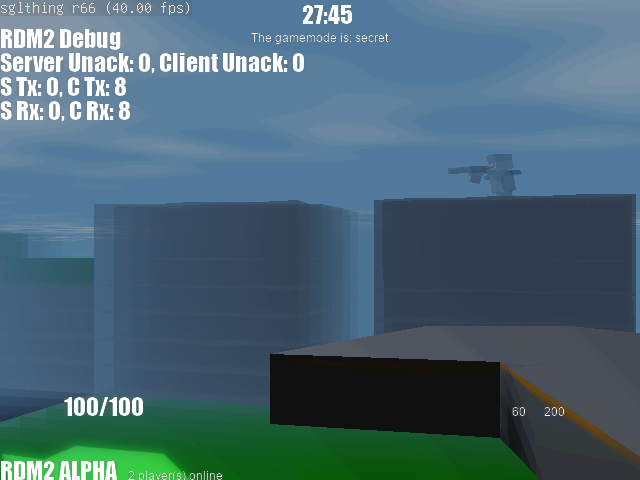
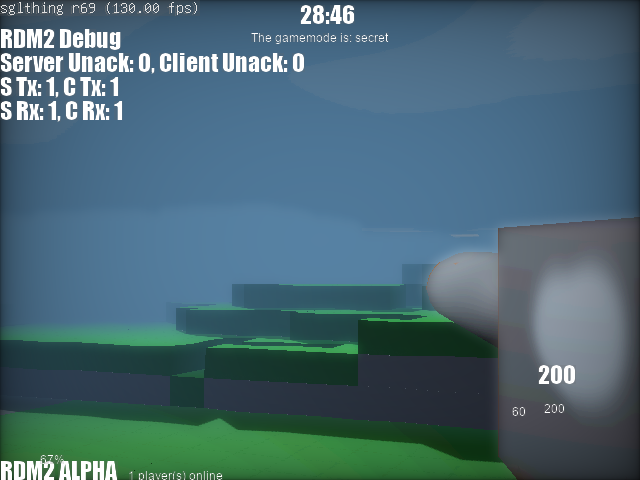
rdm2: color picker

diff --git a/sglrdm2/rdm2.c b/sglrdm2/rdm2.c
@@ -23,7 +23,7 @@ static void rdm_frame(struct world* world)
         vec3 velocity_frame, velocity_frame_p;
         glm_vec3_copy(client_state.player_velocity, velocity_frame_p);
         glm_vec3_mul(velocity_frame_p, (vec3){world->delta_time, world->delta_time, world->delta_time}, velocity_frame);
-        glm_vec3_add(velocity_frame, player_move, player_move);
+        glm_vec3_sub(velocity_frame, player_move, player_move);
 
         float rooftest_height = 1.5f;
         vec3 player_move_x = {0};
@@ -72,7 +72,7 @@ static void rdm_frame(struct world* world)
             glm_vec3_copy(expected_position, client_state.local_player->position);
 
         vec3 vel_loss;
-        float vel_loss_scalar = 5.f, vel_loss_scalar_y = 0.1f;
+        float vel_loss_scalar = client_state.player_grounded ? 5.f : 1.f, vel_loss_scalar_y = 0.1f;
         glm_vec3_mul(client_state.player_velocity, (vec3){vel_loss_scalar * world->delta_time, vel_loss_scalar_y * world->delta_time, vel_loss_scalar * world->delta_time}, vel_loss);
         glm_vec3_sub(client_state.player_velocity, vel_loss, client_state.player_velocity);
         float vel_min = 0.01f;
@@ -99,7 +99,7 @@ static void rdm_frame(struct world* world)
 
             if(get_focus() && keys_down[GLFW_KEY_SPACE])
             {
-                glm_vec3_add(client_state.player_velocity, (vec3){0.f,5.0f,0.f}, client_state.player_velocity);         
+                glm_vec3_add(client_state.player_velocity, (vec3){0.f,3.5f,0.f}, client_state.player_velocity);         
                 glm_vec3_add(client_state.local_player->position, (vec3){0.f,0.1f,0.f}, client_state.local_player->position);
             }            
         }
@@ -125,6 +125,23 @@ static void rdm_frame(struct world* world)
 
         if(get_focus())
         {
+            if(client_state.local_player->active_weapon == WEAPON_BLOCK)
+            {
+                if(floorf(mouse_state.scroll_y) != 0)
+                {
+                    struct network_packet _pak; 
+                    union rdm_packet_data* _data = (union rdm_packet_data*)&_pak.packet.data;
+
+                    _pak.meta.packet_type = RDM_PACKET_UPDATE_WEAPON;
+                    _pak.meta.acknowledge = false;
+                    _pak.meta.packet_size = sizeof(union rdm_packet_data);
+                    _data->update_weapon.weapon = WEAPON_BLOCK;
+                    _data->update_weapon.block_color = client_state.local_player->weapon_block_color + floorf(mouse_state.scroll_y);
+
+                    network_transmit_packet(&world->client, &world->client.client, &_pak);
+                }
+            }
+
             if(mouse_state.mouse_button_l)
                 weapon_trigger_fire(world, false);
             else if(mouse_state.mouse_button_r)
@@ -155,11 +172,13 @@ static void rdm_frame(struct world* world)
 
             glm_vec3_zero(player_move); // fall
 
-            client_state.player_velocity[0] += cosf(world->cam.yaw*M_PI_180f) * get_input("z_axis") * world->delta_time * 25.f;
-            client_state.player_velocity[2] += sinf(world->cam.yaw*M_PI_180f) * get_input("z_axis") * world->delta_time * 25.f;
+            float move_speed = client_state.player_grounded ? 25.f : 7.f;
 
-            client_state.player_velocity[0] += cosf(world->cam.yaw*M_PI_180f+M_PI_2f) * get_input("x_axis") * world->delta_time * 25.f;
-            client_state.player_velocity[2] += sinf(world->cam.yaw*M_PI_180f+M_PI_2f) * get_input("x_axis") * world->delta_time * 25.f;
+            client_state.player_velocity[0] += cosf(world->cam.yaw*M_PI_180f) * get_input("z_axis") * world->delta_time * move_speed;
+            client_state.player_velocity[2] += sinf(world->cam.yaw*M_PI_180f) * get_input("z_axis") * world->delta_time * move_speed;
+
+            client_state.player_velocity[0] += cosf(world->cam.yaw*M_PI_180f+M_PI_2f) * get_input("x_axis") * world->delta_time * move_speed;
+            client_state.player_velocity[2] += sinf(world->cam.yaw*M_PI_180f+M_PI_2f) * get_input("x_axis") * world->delta_time * move_speed;
         }
 
         if(world->client.pung)
@@ -340,9 +359,12 @@ static void rdm_frame_ui(struct world* world)
             {
                 vec4 oldbg_kys;
                 world->ui->panel_background_color[3] = 1.f;
-                int c = client_state.local_player->weapon_block_color;
+                unsigned char c = client_state.local_player->weapon_block_color;
                 map_color_to_rgb(c, world->ui->panel_background_color);
                 ui_draw_panel(world->ui, world->gfx.screen_width - 32, 32, 32, 32, 1.f);
+                char col_tx[16];
+                snprintf(col_tx,16,"%u",c);
+                ui_font2_text(world->ui, 0.f, 12.f, client_state.normal_font, col_tx, 0.5f);
                 ui_end_panel(world->ui);
                 glm_vec4_copy(oldbg_kys, world->ui->panel_background_color);
             }

diff --git a/sglrdm2/map.c b/sglrdm2/map.c
@@ -151,9 +151,9 @@ void map_update_chunks(struct map_manager* map, struct world* world)
         }
     }
 
-    int p_c_x = floorf(world->cam.position[0]/(RENDER_CHUNK_SIZE * CUBE_SIZE));
+    int p_c_x = floorf((world->cam.position[0]+0.5f)/(RENDER_CHUNK_SIZE * CUBE_SIZE));
     int p_c_y = floorf(world->cam.position[1]/(RENDER_CHUNK_SIZE * CUBE_SIZE));
-    int p_c_z = floorf(world->cam.position[2]/(RENDER_CHUNK_SIZE * CUBE_SIZE));
+    int p_c_z = floorf((world->cam.position[2]+0.5f)/(RENDER_CHUNK_SIZE * CUBE_SIZE));
 
     int request_range = map->map_request_range;
 
@@ -193,7 +193,7 @@ void map_update_chunks(struct map_manager* map, struct world* world)
     profiler_end();
 }
 
-void map_update_chunk(struct map_manager* map, int c_x, int c_y, int c_z, int d_x, char* chunk_data)
+void map_update_chunk(struct map_manager* map, int c_x, int c_y, int c_z, int d_x, unsigned char* chunk_data)
 {
     struct __render_chunk* new_chunk = __map_chunk_position(map, c_x, c_y, c_z);
     if(!new_chunk)
@@ -214,7 +214,7 @@ void map_update_chunk(struct map_manager* map, int c_x, int c_y, int c_z, int d_
         for(int z = 0; z < RENDER_CHUNK_SIZE; z++)
         {
             struct __render_chunk_block* block = &new_chunk->x[d_x].y[y].z[z];
-            char data = chunk_data[y*RENDER_CHUNK_SIZE+z];
+            unsigned char data = chunk_data[y*RENDER_CHUNK_SIZE+z];
             block->air = false;
             if(data == 0)
                 block->air = true;
@@ -410,7 +410,7 @@ bool map_determine_collision_server(struct map_server* map, vec3 position)
     }
 }
 
-void map_color_to_rgb(char color_id, vec3 output)
+void map_color_to_rgb(unsigned char color_id, vec3 output)
 {
     int data_r = abs((color_id / 16) + 1);
     int data_g = abs((color_id / 4 % 4) + 1);

diff --git a/sglrdm2/map.h b/sglrdm2/map.h
@@ -17,7 +17,7 @@ struct map_chunk
 {
     struct {
         struct {
-            char z[RENDER_CHUNK_SIZE];
+            unsigned char z[RENDER_CHUNK_SIZE];
         } y[RENDER_CHUNK_SIZE];
     } x[RENDER_CHUNK_SIZE];
 };
@@ -54,8 +54,8 @@ void map_server_init(struct map_server* map);
 void map_init(struct map_manager* map);
 void map_render_chunks(struct world* world, struct map_manager* map);
 void map_update_chunks(struct map_manager* map, struct world* world);
-void map_update_chunk(struct map_manager* map, int c_x, int c_y, int c_z, int d_x, char* chunk_data);
-void map_color_to_rgb(char color_id, vec3 output);
+void map_update_chunk(struct map_manager* map, int c_x, int c_y, int c_z, int d_x, unsigned char* chunk_data);
+void map_color_to_rgb(unsigned char color_id, vec3 output);
 
 bool map_determine_collision_client(struct map_manager* map, vec3 position);
 bool map_determine_collision_server(struct map_server* map, vec3 position);

diff --git a/sglthing/keyboard.c b/sglthing/keyboard.c
@@ -16,6 +16,13 @@ bool input_lock_tab = false;
 int input_cursor = 0;
 
 #ifndef HEADLESS
+
+static void __scroll_callback(GLFWwindow* window, double xoffset, double yoffset)
+{
+    mouse_state.scroll_x = xoffset;
+    mouse_state.scroll_y = yoffset;
+}
+
 static void __mouse_callback(GLFWwindow* window, double xpos, double ypos)
 {
     mouse_position[0] = xpos;
@@ -97,6 +104,7 @@ void init_kbd(GLFWwindow* window)
     glfwSetMouseButtonCallback(window, __click_callback);
     glfwSetCursorPosCallback(window, __mouse_callback);
     glfwSetCharCallback(window, __chara_callback);
+    glfwSetScrollCallback(window, __scroll_callback);
     input_disable = false;
 }
 #endif
@@ -143,6 +151,8 @@ void kbd_frame_end()
 {
     mouse_position[0] = 0.f;
     mouse_position[1] = 0.f;
+    mouse_state.scroll_x = 0.f;
+    mouse_state.scroll_y = 0.f;
 }
 
 void start_text_input()

diff --git a/sglrdm2/rdm_net.c b/sglrdm2/rdm_net.c
@@ -427,6 +427,7 @@ static bool net_receive_packet(struct network* network, struct network_client* c
                 _pak.meta.packet_size = sizeof(union rdm_packet_data);
                 _data->update_weapon.player_id = client->player_id,
                 _data->update_weapon.weapon = packet_data->update_weapon.weapon;
+                _data->update_weapon.block_color = packet_data->update_weapon.block_color;
                 remote_player->active_weapon = packet_data->update_weapon.weapon;
                 remote_player->weapon_block_color = packet_data->update_weapon.block_color;
 

diff --git a/sglrdm2/rdm_net.h b/sglrdm2/rdm_net.h
@@ -94,8 +94,8 @@ struct rdm_player
     enum rdm_team team;
     enum weapon_type active_weapon;
     int weapon_ammos[__WEAPON_MAX];
-    char weapon_block_color;
-    
+    unsigned char weapon_block_color;
+
     versor direction;
 
     struct antagonist antagonist_data;

diff --git a/sglthing/keyboard.h b/sglthing/keyboard.h
@@ -23,6 +23,8 @@ struct mouse_state
     bool mouse_button_r;
     bool mouse_button_m;
     bool mouse_button_l;
+    double scroll_x;
+    double scroll_y;
 };
 
 #ifdef HEADLESS
